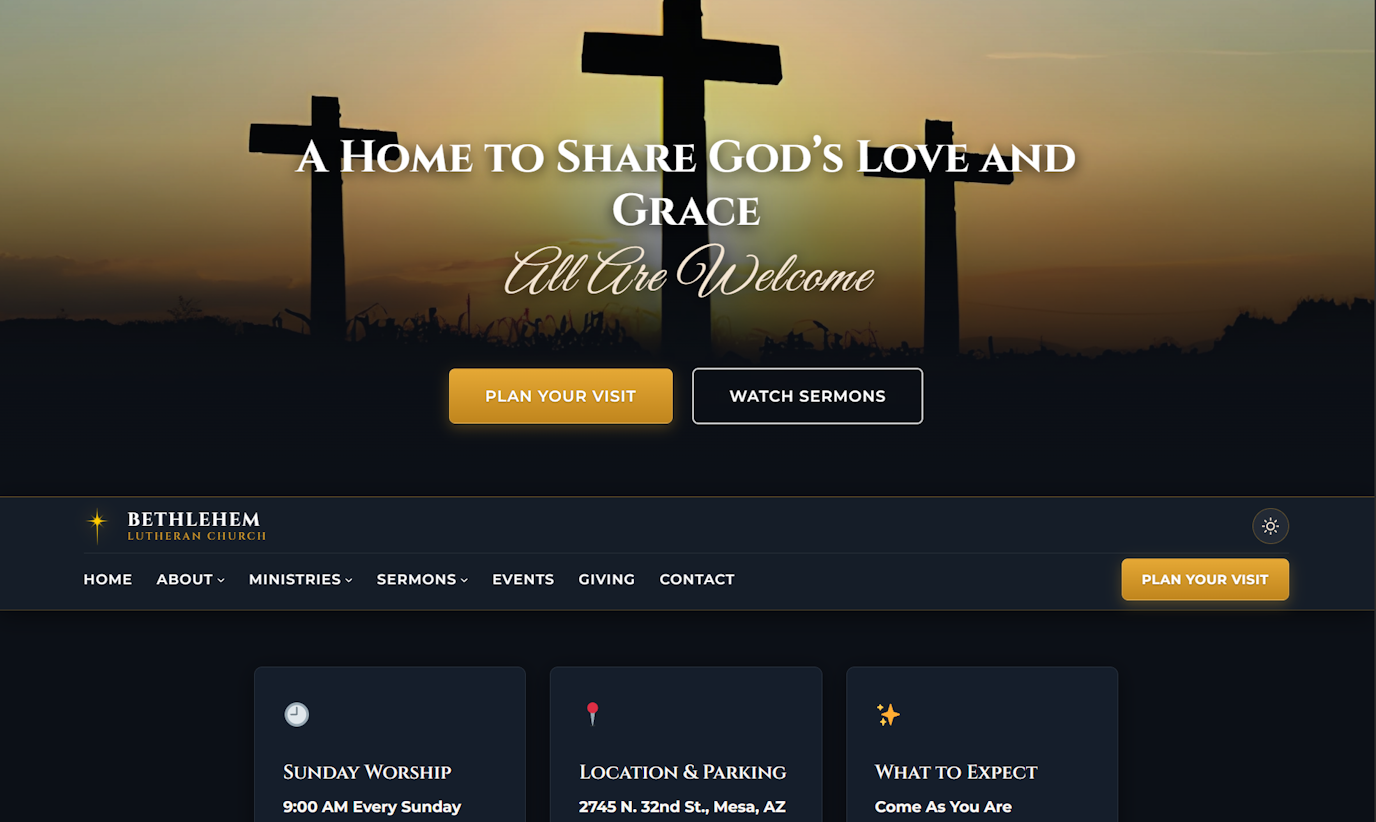
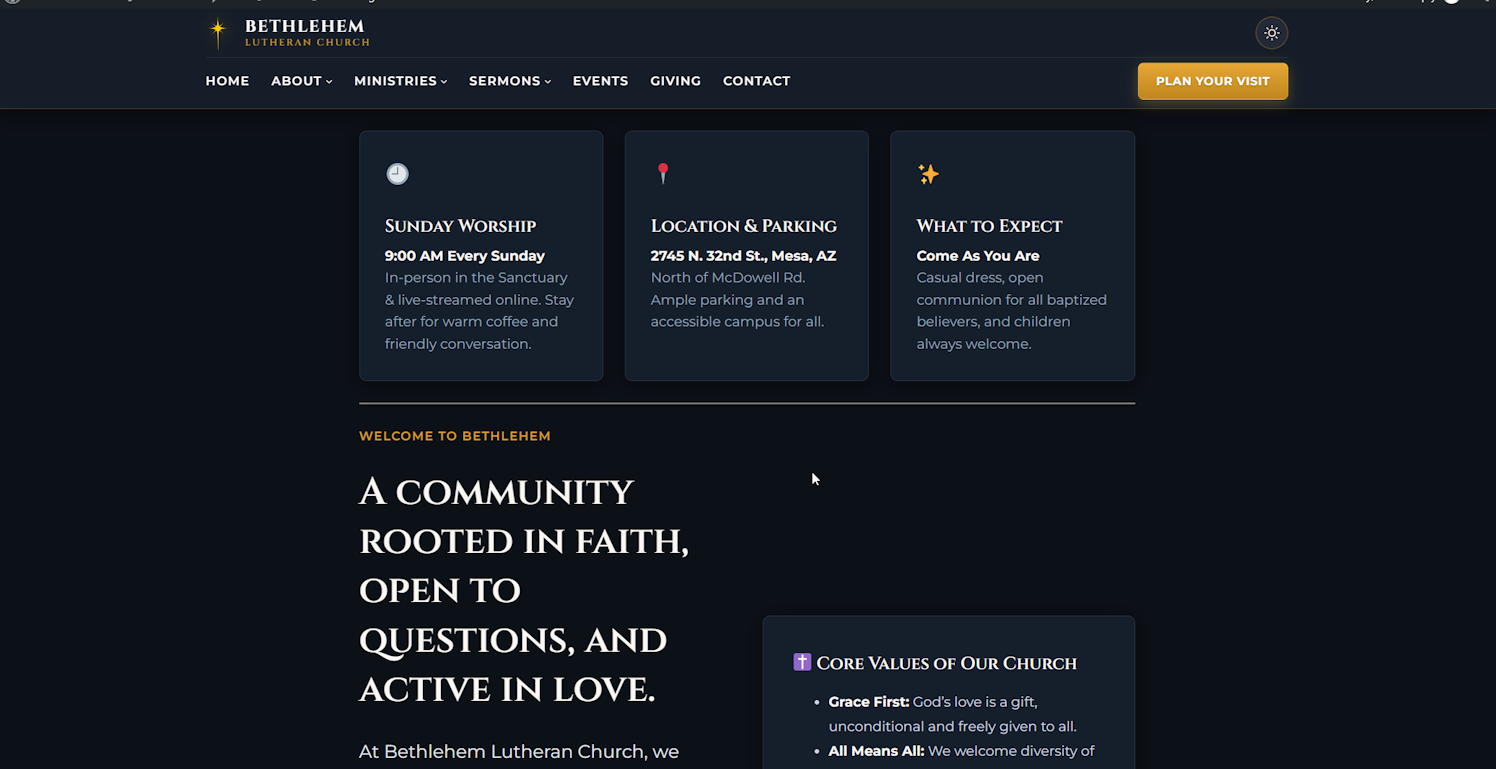
Deploy blcmesa-theme v1.2.4 (main@ed013b6)

diff --git a/assets/css/components/page-header.css b/assets/css/components/page-header.css
@@ -1,0 +1,145 @@
+/* -------------------------------------------------------------
+ * 2c. Inner Page Header Banner (Right-to-Left Faded Cityscape)
+ * ----------------------------------------------------------- */
+.blc-page-header {
+  position: relative;
+  overflow: hidden;
+  isolation: isolate;
+  margin-block-start: 0 !important;
+  margin-top: 0 !important;
+  padding: clamp(2.5rem, 5vw, 3.75rem) var(--wp--preset--spacing--30) !important;
+  text-align: center;
+  border-bottom: 2px solid var(--blc-gold-primary);
+  background-color: var(--blc-midnight-slate, #151D28) !important;
+  background-image: linear-gradient(180deg var(--in-oklab), #0C1017 0%, #151D28 100%) !important;
+}
+
+/* Horizontal cityscape slice anchored to the right ~1/3, smoothly faded left via CSS masking */
+.blc-page-header::before {
+  content: "";
+  position: absolute;
+  top: 0;
+  right: 0;
+  bottom: 0;
+  width: clamp(320px, 42vw, 680px);
+  z-index: 0;
+  pointer-events: none;
+  background-image: url('../../images/blc-mesa-hero-dec-2026.jpg');
+  background-size: cover;
+  background-position: 58% 70%;
+  background-repeat: no-repeat;
+  opacity: 0.72;
+  /* MANDATORY: Prefixed + standard mask-image for soft transparency fade into dark slate */
+  -webkit-mask-image: linear-gradient(
+    to right,
+    transparent 0%,
+    rgba(0, 0, 0, 0.2) 26%,
+    rgba(0, 0, 0, 0.78) 62%,
+    black 100%
+  );
+  mask-image: linear-gradient(
+    to right,
+    transparent 0%,
+    rgba(0, 0, 0, 0.2) 26%,
+    rgba(0, 0, 0, 0.78) 62%,
+    black 100%
+  );
+}
+
+/* Fallback gradient overlay for older browsers without CSS mask-image support */
+@supports (not (mask-image: linear-gradient(to right, transparent, black))) and (not (-webkit-mask-image: linear-gradient(to right, transparent, black))) {
+  .blc-page-header::after {
+    content: "";
+    position: absolute;
+    top: 0;
+    right: 0;
+    bottom: 0;
+    width: clamp(320px, 42vw, 680px);
+    z-index: 0;
+    pointer-events: none;
+    background: linear-gradient(
+      to right,
+      #151D28 0%,
+      rgba(21, 29, 40, 0.75) 30%,
+      rgba(21, 29, 40, 0.2) 70%,
+      rgba(21, 29, 40, 0) 100%
+    );
+  }
+}
+
+.blc-page-header > * {
+  position: relative;
+  z-index: 1;
+}
+
+.blc-page-eyebrow {
+  font-family: Montserrat, sans-serif !important;
+  font-size: 0.8rem !important;
+  letter-spacing: 0.15em !important;
+  text-transform: uppercase !important;
+  color: var(--blc-gold-primary) !important;
+  margin: 0 0 0.5rem 0 !important;
+  font-weight: 600 !important;
+}
+
+.blc-page-title {
+  font-family: Cinzel, serif !important;
+  font-size: clamp(2rem, 4.5vw, 3.1rem) !important;
+  font-weight: 700 !important;
+  line-height: 1.2 !important;
+  color: #FAF8F5 !important;
+  margin: 0 !important;
+  letter-spacing: 0.05em !important;
+  text-shadow: 0 2px 14px rgba(12, 16, 23, 0.85);
+}
+
+.blc-page-header-meta {
+  margin-top: 0.75rem !important;
+  color: #CBD5E1 !important;
+  font-size: 0.9rem !important;
+  gap: 0.5rem !important;
+  align-items: center !important;
+}
+
+.blc-page-header-meta p {
+  margin: 0 !important;
+  color: inherit !important;
+}
+
+/* Mobile: subtle low-opacity full-width dimmed cityscape backdrop behind the title */
+@media (max-width: 768px) {
+  .blc-page-header {
+    padding: 2.25rem var(--wp--preset--spacing--20) !important;
+  }
+
+  .blc-page-header::before {
+    left: 0;
+    width: 100%;
+    opacity: 0.28;
+    background-position: 58% 68%;
+    -webkit-mask-image: linear-gradient(
+      to bottom,
+      rgba(0, 0, 0, 0.35) 0%,
+      rgba(0, 0, 0, 0.85) 55%,
+      black 100%
+    );
+    mask-image: linear-gradient(
+      to bottom,
+      rgba(0, 0, 0, 0.35) 0%,
+      rgba(0, 0, 0, 0.85) 55%,
+      black 100%
+    );
+  }
+
+  @supports (not (mask-image: linear-gradient(to bottom, transparent, black))) and (not (-webkit-mask-image: linear-gradient(to bottom, transparent, black))) {
+    .blc-page-header::after {
+      left: 0;
+      width: 100%;
+      background: linear-gradient(
+        to bottom,
+        rgba(12, 16, 23, 0.65) 0%,
+        rgba(21, 29, 40, 0.45) 100%
+      );
+    }
+  }
+}

diff --git a/templates/single.html b/templates/single.html
@@ -1,11 +1,11 @@
 <!-- wp:template-part {"slug":"header","tagName":"header"} /-->
 
-<!-- wp:group {"tagName":"main","style":{"spacing":{"padding":{"top":"var:preset|spacing|40","bottom":"var:preset|spacing|40"}}},"layout":{"type":"constrained"}} -->
-<main class="wp-block-group" style="padding-top:var(--wp--preset--spacing--40);padding-bottom:var(--wp--preset--spacing--40)">
-  <!-- wp:post-title {"level":1,"style":{"spacing":{"margin":{"bottom":"var:preset|spacing|20"}}}} /-->
+<!-- wp:group {"tagName":"section","align":"full","className":"blc-page-header","backgroundColor":"midnight-slate","textColor":"white","layout":{"type":"constrained"}} -->
+<section class="wp-block-group alignfull blc-page-header has-white-color has-midnight-slate-background-color has-text-color has-background">
+  <!-- wp:post-title {"textAlign":"center","level":1,"className":"blc-page-title"} /-->
 
-  <!-- wp:group {"style":{"spacing":{"margin":{"bottom":"var:preset|spacing|30"}}},"textColor":"dark","layout":{"type":"flex","flexWrap":"wrap"}} -->
-  <div class="wp-block-group has-dark-color has-text-color" style="margin-bottom:var(--wp--preset--spacing--30)">
+  <!-- wp:group {"className":"blc-page-header-meta","layout":{"type":"flex","flexWrap":"wrap","justifyContent":"center"}} -->
+  <div class="wp-block-group blc-page-header-meta">
     <!-- wp:post-date /-->
     <!-- wp:paragraph {"style":{"typography":{"fontSize":"var:preset|font-size|small"}}} -->
     <p style="font-size:var(--wp--preset--font-size--small)">&bull;</p>
@@ -13,7 +13,11 @@
     <!-- wp:post-author {"showAvatar":false} /-->
   </div>
   <!-- /wp:group -->
+</section>
+<!-- /wp:group -->
 
+<!-- wp:group {"tagName":"main","style":{"spacing":{"padding":{"top":"var:preset|spacing|40","bottom":"var:preset|spacing|40"}}},"layout":{"type":"constrained"}} -->
+<main class="wp-block-group" style="padding-top:var(--wp--preset--spacing--40);padding-bottom:var(--wp--preset--spacing--40)">
   <!-- wp:post-featured-image {"style":{"spacing":{"margin":{"bottom":"var:preset|spacing|30"}}}} /-->
 
   <!-- wp:post-content {"layout":{"type":"constrained"}} /-->

diff --git a/templates/404.html b/templates/404.html
@@ -1,11 +1,15 @@
 <!-- wp:template-part {"slug":"header","tagName":"header"} /-->
 
+<!-- wp:group {"tagName":"section","align":"full","className":"blc-page-header","backgroundColor":"midnight-slate","textColor":"white","layout":{"type":"constrained"}} -->
+<section class="wp-block-group alignfull blc-page-header has-white-color has-midnight-slate-background-color has-text-color has-background">
+  <!-- wp:heading {"textAlign":"center","level":1,"className":"blc-page-title"} -->
+  <h1 class="wp-block-heading has-text-align-center blc-page-title">Page Not Found</h1>
+  <!-- /wp:heading -->
+</section>
+<!-- /wp:group -->
+
 <!-- wp:group {"tagName":"main","style":{"spacing":{"padding":{"top":"var:preset|spacing|50","bottom":"var:preset|spacing|50"}}},"layout":{"type":"constrained"}} -->
 <main class="wp-block-group" style="padding-top:var(--wp--preset--spacing--50);padding-bottom:var(--wp--preset--spacing--50)">
-<!-- wp:heading {"textAlign":"center","level":1,"style":{"typography":{"fontSize":"var:preset|font-size|2x-large"}}} -->
-<h1 class="wp-block-heading has-text-align-center" style="font-size:var(--wp--preset--font-size--2x-large)">Page Not Found</h1>
-<!-- /wp:heading -->
-
 <!-- wp:paragraph {"align":"center","style":{"spacing":{"margin":{"top":"var:preset|spacing|20","bottom":"var:preset|spacing|30"}}}} -->
 <p class="has-text-align-center" style="margin-top:var(--wp--preset--spacing--20);margin-bottom:var(--wp--preset--spacing--30)">We're sorry, the page you are looking for cannot be found. Please return to our homepage or search below.</p>
 <!-- /wp:paragraph -->

diff --git a/templates/home.html b/templates/home.html
@@ -1,11 +1,15 @@
 <!-- wp:template-part {"slug":"header","tagName":"header"} /-->
 
+<!-- wp:group {"tagName":"section","align":"full","className":"blc-page-header","backgroundColor":"midnight-slate","textColor":"white","layout":{"type":"constrained"}} -->
+<section class="wp-block-group alignfull blc-page-header has-white-color has-midnight-slate-background-color has-text-color has-background">
+  <!-- wp:heading {"textAlign":"center","level":1,"className":"blc-page-title"} -->
+  <h1 class="wp-block-heading has-text-align-center blc-page-title">Latest Sermons &amp; News</h1>
+  <!-- /wp:heading -->
+</section>
+<!-- /wp:group -->
+
 <!-- wp:group {"tagName":"main","style":{"spacing":{"padding":{"top":"var:preset|spacing|40","bottom":"var:preset|spacing|40"}}},"layout":{"type":"constrained"}} -->
 <main class="wp-block-group" style="padding-top:var(--wp--preset--spacing--40);padding-bottom:var(--wp--preset--spacing--40)">
-  <!-- wp:heading {"level":1,"style":{"spacing":{"margin":{"bottom":"var:preset|spacing|30"}}}} -->
-  <h1 class="wp-block-heading" style="margin-bottom:var(--wp--preset--spacing--30)">Latest Sermons &amp; News</h1>
-  <!-- /wp:heading -->
-
   <!-- wp:query {"queryId":1,"query":{"perPage":10,"pages":0,"offset":0,"postType":"post","order":"desc","orderBy":"date","author":"","search":"","exclude":[],"sticky":"","inherit":true}} -->
   <div class="wp-block-query">
     <!-- wp:post-template {"layout":{"type":"default"}} -->

diff --git a/assets/css/home.css b/assets/css/home.css
@@ -1,21 +1,21 @@
 /* -------------------------------------------------------------
- * 1b. Hero Section (Extended Sky, Centered & Dark Blended)
+ * 1b. Hero Section (Star of Bethlehem, Centered & Dark Blended)
  * ----------------------------------------------------------- */
 .blc-hero-section {
   position: relative;
   overflow: hidden;
   background-color: #0C1017 !important;
-  background-image: 
-    linear-gradient(180deg, 
-      rgba(12, 16, 23, 0.4) 0%, 
-      rgba(12, 16, 23, 0.05) 25%, 
-      rgba(12, 16, 23, 0.25) 55%, 
-      rgba(12, 16, 23, 0.95) 85%, 
+  background-image:
+    linear-gradient(180deg,
+      rgba(12, 16, 23, 0.4) 0%,
+      rgba(12, 16, 23, 0.05) 25%,
+      rgba(12, 16, 23, 0.25) 55%,
+      rgba(12, 16, 23, 0.95) 85%,
       #0C1017 100%
     ),
-    url('../images/three-crosses-ext.webp') !important;
+    url('../images/blc-mesa-hero-dec-2026.jpg') !important;
   background-size: cover !important;
-  background-position: center 20% !important;
+  background-position: center 35% !important;
   background-repeat: no-repeat !important;
   min-height: 88vh;
   display: flex;
@@ -122,7 +122,7 @@
 @media (max-width: 768px) {
   .blc-hero-section {
     background-size: cover !important;
-    background-position: center 25% !important;
+    background-position: 58% center !important;
     min-height: 92vh !important;
     padding-top: 2.5rem !important;
     padding-bottom: 3.5rem !important;

diff --git a/templates/page.html b/templates/page.html
@@ -1,8 +1,13 @@
 <!-- wp:template-part {"slug":"header","tagName":"header"} /-->
 
-<!-- wp:group {"tagName":"main","style":{"spacing":{"padding":{"top":"var:preset|spacing|40","bottom":"var:preset|spacing|40"}}},"layout":{"type":"constrained"}} -->
-<main class="wp-block-group" style="padding-top:var(--wp--preset--spacing--40);padding-bottom:var(--wp--preset--spacing--40)">
-  <!-- wp:post-title {"level":1,"style":{"spacing":{"margin":{"bottom":"var:preset|spacing|30"}}}} /-->
+<!-- wp:group {"tagName":"section","align":"full","className":"blc-page-header","backgroundColor":"midnight-slate","textColor":"white","layout":{"type":"constrained"}} -->
+<section class="wp-block-group alignfull blc-page-header has-white-color has-midnight-slate-background-color has-text-color has-background">
+  <!-- wp:post-title {"textAlign":"center","level":1,"className":"blc-page-title"} /-->
+</section>
+<!-- /wp:group -->
+
+<!-- wp:group {"tagName":"main","style":{"spacing":{"padding":{"top":"var:preset|spacing|30","bottom":"var:preset|spacing|40"}}},"layout":{"type":"constrained"}} -->
+<main class="wp-block-group" style="padding-top:var(--wp--preset--spacing--30);padding-bottom:var(--wp--preset--spacing--40)">
   <!-- wp:post-content {"layout":{"type":"constrained"}} /-->
 </main>
 <!-- /wp:group -->

diff --git a/templates/archive.html b/templates/archive.html
@@ -1,9 +1,13 @@
 <!-- wp:template-part {"slug":"header","tagName":"header"} /-->
 
+<!-- wp:group {"tagName":"section","align":"full","className":"blc-page-header","backgroundColor":"midnight-slate","textColor":"white","layout":{"type":"constrained"}} -->
+<section class="wp-block-group alignfull blc-page-header has-white-color has-midnight-slate-background-color has-text-color has-background">
+  <!-- wp:query-title {"type":"archive","textAlign":"center","className":"blc-page-title"} /-->
+</section>
+<!-- /wp:group -->
+
 <!-- wp:group {"tagName":"main","style":{"spacing":{"padding":{"top":"var:preset|spacing|40","bottom":"var:preset|spacing|40"}}},"layout":{"type":"constrained"}} -->
 <main class="wp-block-group" style="padding-top:var(--wp--preset--spacing--40);padding-bottom:var(--wp--preset--spacing--40)">
-  <!-- wp:query-title {"type":"archive","style":{"spacing":{"margin":{"bottom":"var:preset|spacing|30"}}}} /-->
-
   <!-- wp:query {"queryId":2,"query":{"perPage":10,"pages":0,"offset":0,"postType":"post","order":"desc","orderBy":"date","author":"","search":"","exclude":[],"sticky":"","inherit":true}} -->
   <div class="wp-block-query">
     <!-- wp:post-template {"layout":{"type":"default"}} -->

diff --git a/assets/css/pages/page-about.css b/assets/css/pages/page-about.css
@@ -1,31 +1,6 @@
 /* -------------------------------------------------------------
  * 12. About Us Page, Accordions & History Timeline
  * ----------------------------------------------------------- */
-.blc-page-header {
-  padding: 4.5rem var(--wp--preset--spacing--30) 3.5rem var(--wp--preset--spacing--30) !important;
-  text-align: center;
-  border-bottom: 2px solid var(--blc-gold-primary);
-  background: linear-gradient(180deg, #0C1017 0%, #151D28 100%) !important;
-}
-
-.blc-page-eyebrow {
-  font-family: Montserrat, sans-serif !important;
-  font-size: 0.8rem !important;
-  letter-spacing: 0.15em !important;
-  text-transform: uppercase !important;
-  color: var(--blc-gold-primary) !important;
-  margin: 0 0 0.5rem 0 !important;
-  font-weight: 600 !important;
-}
-
-.blc-page-title {
-  font-family: Cinzel, serif !important;
-  font-size: clamp(2.2rem, 5vw, 3.2rem) !important;
-  color: #FAF8F5 !important;
-  margin: 0 0 0.75rem 0 !important;
-  letter-spacing: 0.04em !important;
-}
-
 .blc-page-lead {
   max-width: 680px;
   margin: 0 auto !important;

diff --git a/style.css b/style.css
@@ -4,7 +4,7 @@ Theme URI: https://blcmesa.org
 Author: Bethlehem Lutheran Church Mesa
 Author URI: https://blcmesa.org
 Description: Clean, modern Gutenberg Full Site Editing (FSE) block theme for Bethlehem Lutheran Church. Built for volunteer ease of use and performance.
-Version: 1.2.2
+Version: 1.2.4
 Requires at least: 6.5
 Tested up to: 7.1
 Requires PHP: 8.2

diff --git a/assets/css/base/variables.css b/assets/css/base/variables.css
@@ -9,6 +9,13 @@
   --blc-midnight-slate: #151D28;
   --blc-cream: #FAF8F5;
   --blc-white: #FFFFFF;
+  --in-oklab: ;
+}
+
+@supports (background: linear-gradient(in oklab, white, black)) {
+  :root {
+    --in-oklab: in oklab;
+  }
 }
 
 /* Remove default block gap above template parts (header, footer) */

diff --git a/functions.php b/functions.php
@@ -33,6 +33,7 @@ function blcmesa_setup() {
             'assets/css/base/variables.css',
             'assets/css/base/typography.css',
             'assets/css/components/navigation.css',
+            'assets/css/components/page-header.css',
             'assets/css/components/buttons.css',
             'assets/css/components/cards.css',
             'assets/css/components/footer.css',
@@ -86,7 +87,7 @@ function blcmesa_theme_head_script() {
     <link rel="preload" href="<?php echo esc_url( $theme_uri . '/assets/fonts/cinzel.woff2' ); ?>" as="font" type="font/woff2" crossorigin>
     <link rel="preload" href="<?php echo esc_url( $theme_uri . '/assets/fonts/montserrat-400.woff2' ); ?>" as="font" type="font/woff2" crossorigin>
     <?php if ( is_front_page() ) : ?>
-    <link rel="preload" as="image" href="<?php echo esc_url( $theme_uri . '/assets/images/three-crosses-ext.webp' ); ?>" fetchpriority="high" type="image/webp">
+    <link rel="preload" as="image" href="<?php echo esc_url( $theme_uri . '/assets/images/blc-mesa-hero-dec-2026.jpg' ); ?>" fetchpriority="high" type="image/jpeg">
     <?php endif; ?>
     <?php
 }
@@ -116,6 +117,7 @@ function blcmesa_scripts() {
         'blcmesa-variables'   => '/assets/css/base/variables.css',
         'blcmesa-typography'  => '/assets/css/base/typography.css',
         'blcmesa-navigation'  => '/assets/css/components/navigation.css',
+        'blcmesa-page-header' => '/assets/css/components/page-header.css',
         'blcmesa-buttons'     => '/assets/css/components/buttons.css',
         'blcmesa-cards'       => '/assets/css/components/cards.css',
         'blcmesa-footer'      => '/assets/css/components/footer.css',
